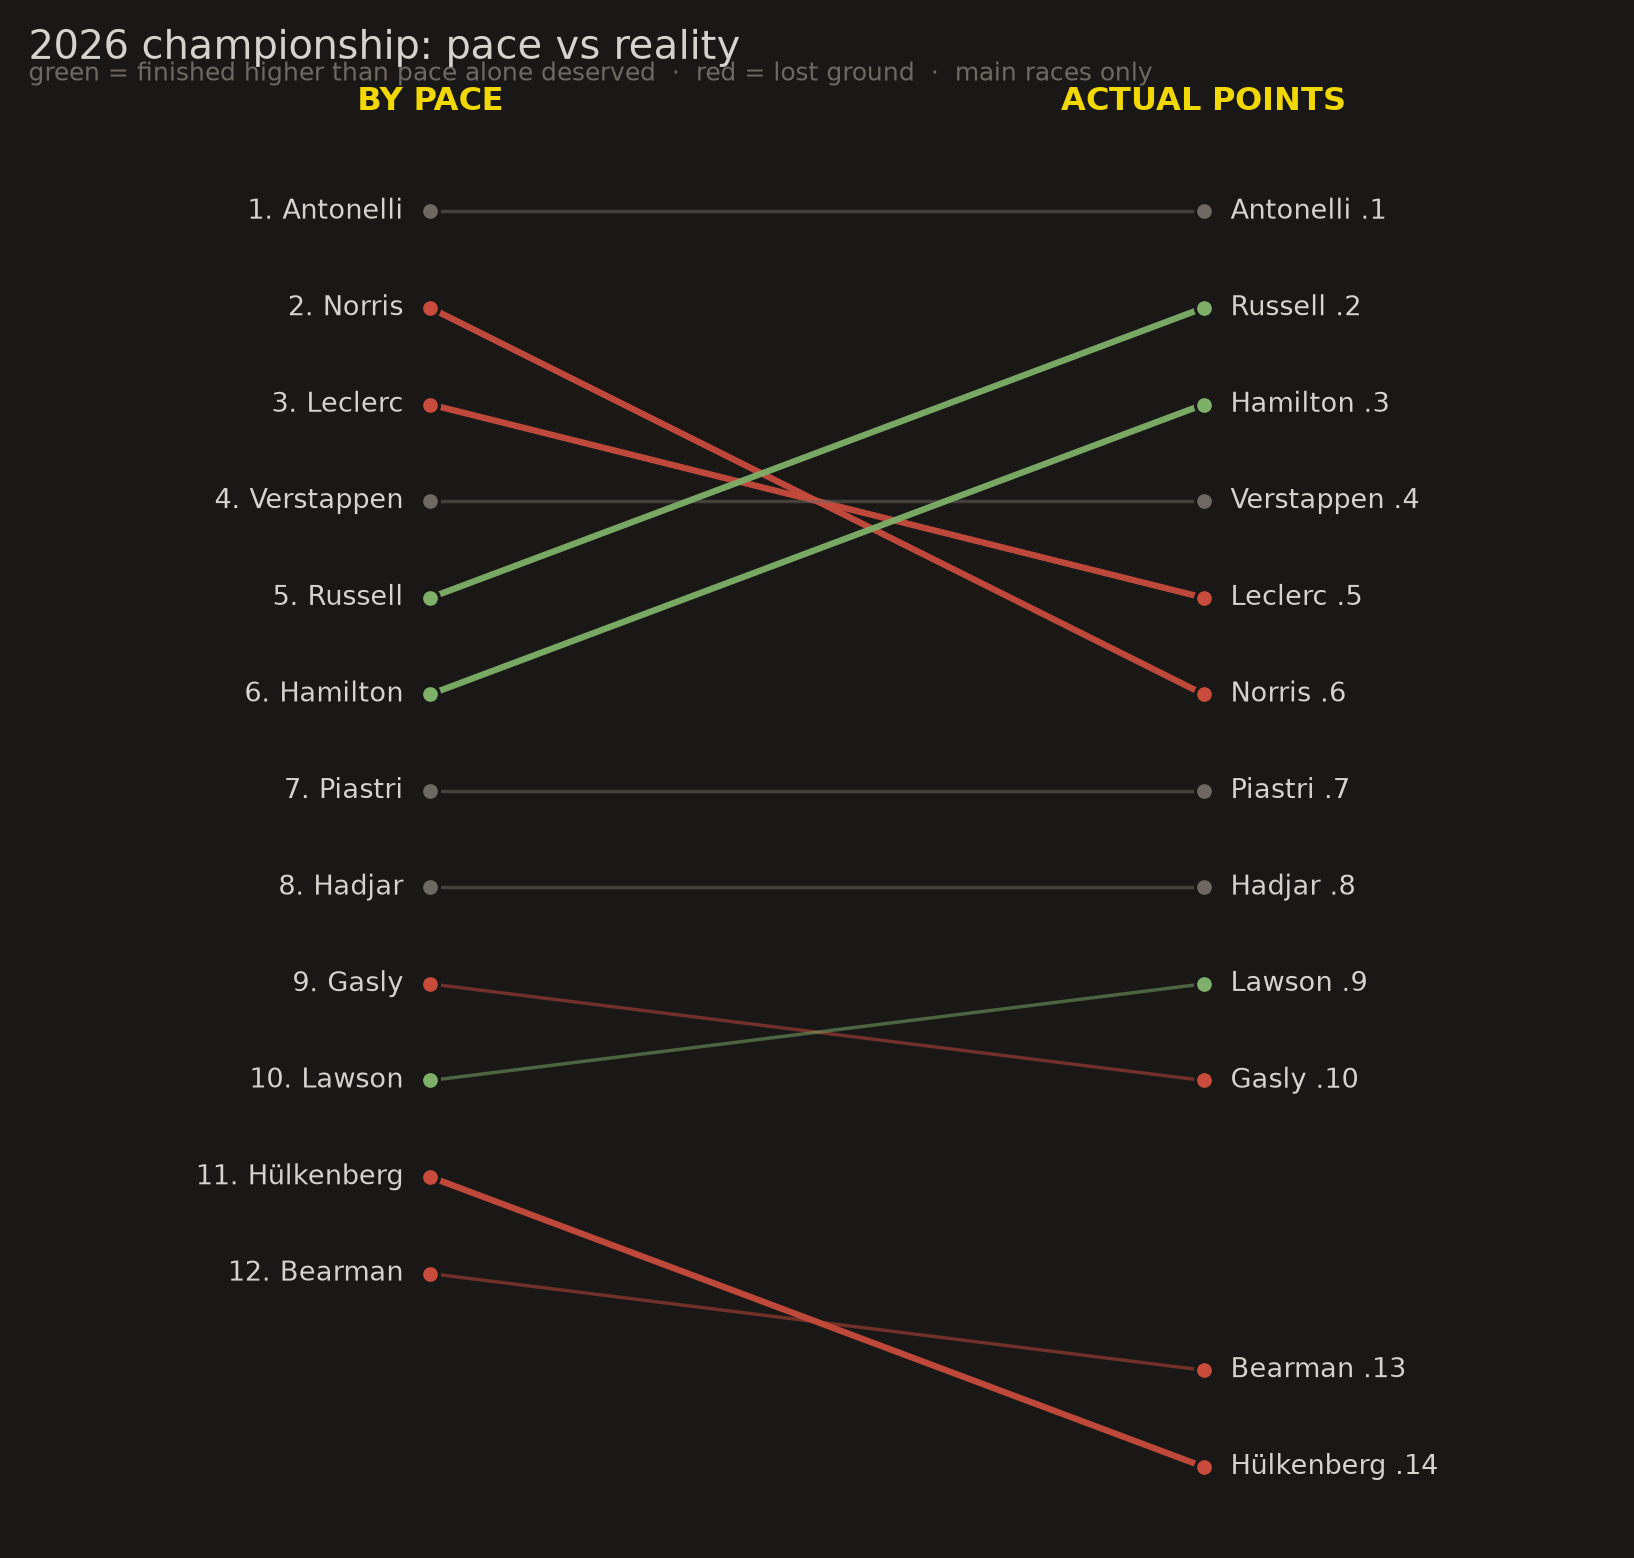
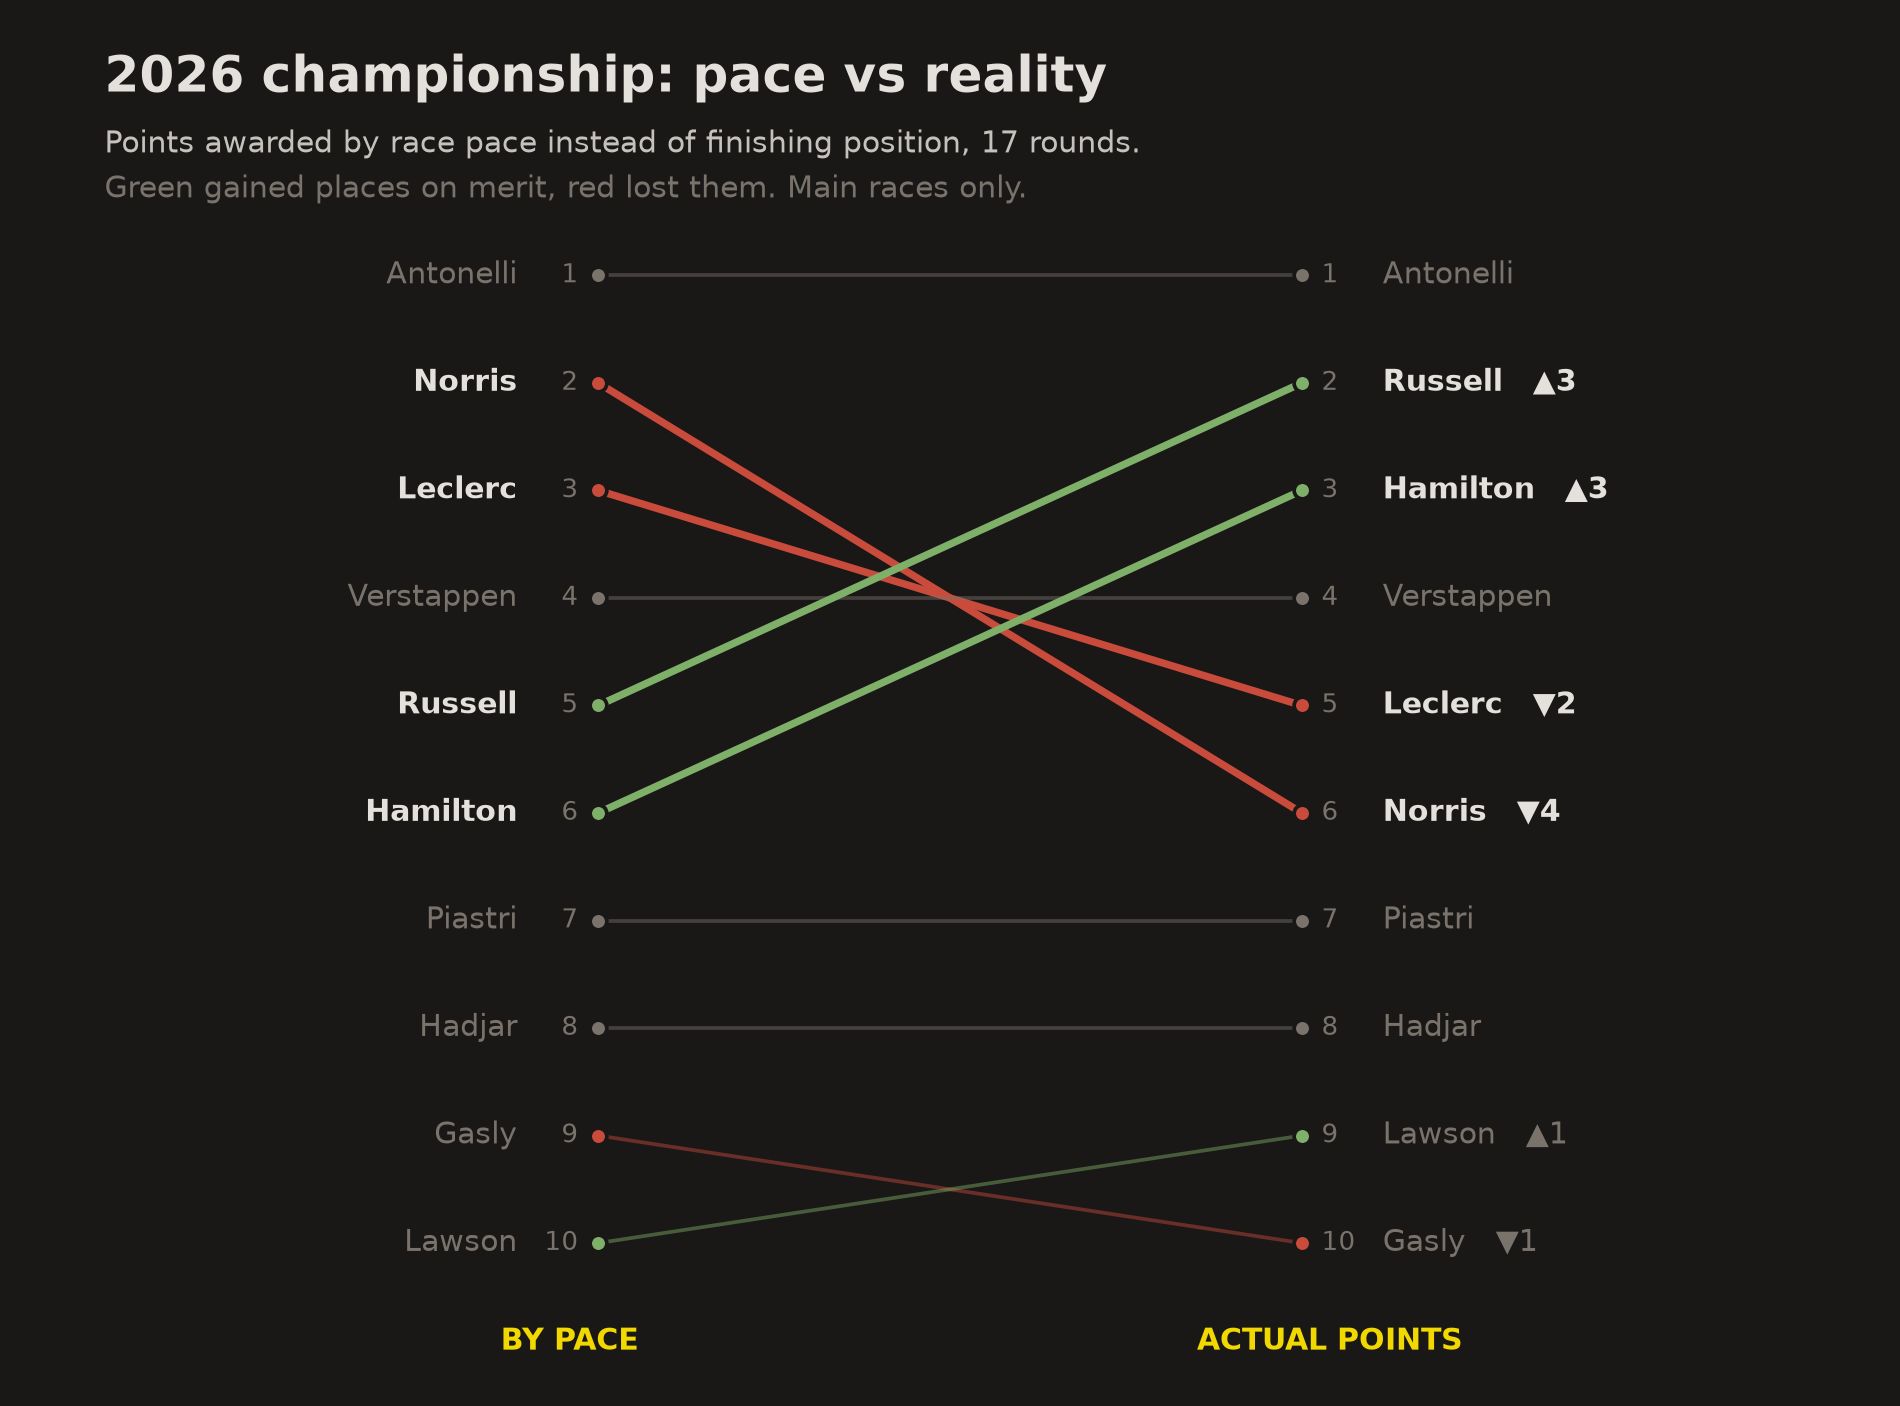
Redraw the pace-vs-championship slope chart: fix title/header collisions, label overlaps on two-digit ranks, and mute non-movers

diff --git a/src/plot_slope.py b/src/plot_slope.py
@@ -1,26 +1,48 @@
 import matplotlib; matplotlib.use("Agg")
 import matplotlib.pyplot as plt, pandas as pd, numpy as np
-BG, FG, MUT, ACC, RED, GRN = "#1A1817","#D6D2CE","#6E6862","#F0D800","#C84B3C","#7FB069"
+BG, FG, MUT, ACC, RED, GRN = "#1A1817","#E4E0DB","#7A736C","#F0D800","#C84B3C","#7FB069"
+
 C = pd.read_csv("out/pace_championship.csv").rename(columns={"family":"driver"})
-C = C[C.pace_pos <= 12].sort_values("pace_pos")
-fig, ax = plt.subplots(figsize=(8.6, 8.2), facecolor=BG); ax.set_facecolor(BG)
+C = C[C.pace_pos <= 10].sort_values("pace_pos")
+
+fig = plt.figure(figsize=(10, 7.4), facecolor=BG)
+ax = fig.add_axes([0.30, 0.07, 0.40, 0.78])     # explicit box: leaves room up top
+ax.set_facecolor(BG)
+
 for r in C.itertuples():
     moved = r.real_pos - r.pace_pos
     col = RED if moved > 0 else (GRN if moved < 0 else MUT)
-    ax.plot([0, 1], [r.pace_pos, r.real_pos], color=col, lw=2.4 if abs(moved) >= 2 else 1.3,
-            alpha=.95 if abs(moved) >= 2 else .5, zorder=2)
-    ax.scatter([0,1], [r.pace_pos, r.real_pos], s=46, color=col, zorder=3, edgecolor=BG, lw=1.2)
-    ax.text(-0.035, r.pace_pos, f"{r.pace_pos}. {r.driver}", ha="right", va="center",
-            color=FG, fontsize=10.2)
-    tag = f"{r.driver} .{r.real_pos}"
-    ax.text(1.035, r.real_pos, tag, ha="left", va="center", color=FG, fontsize=10.2)
-ax.invert_yaxis(); ax.set_xlim(-0.52, 1.52); ax.set_xticks([])
-ax.set_yticks([])
-ax.text(0, C.pace_pos.min()-1.05, "BY PACE", ha="center", color=ACC, fontsize=12, fontweight="bold")
-ax.text(1, C.pace_pos.min()-1.05, "ACTUAL POINTS", ha="center", color=ACC, fontsize=12, fontweight="bold")
-ax.set_title("2026 championship: pace vs reality", color=FG, fontsize=15, loc="left", pad=34)
-ax.text(0, 1.045, "green = finished higher than pace alone deserved  ·  red = lost ground  ·  main races only",
-        transform=ax.transAxes, color=MUT, fontsize=9.4, va="bottom")
+    big = abs(moved) >= 2
+    ax.plot([0, 1], [r.pace_pos, r.real_pos], color=col,
+            lw=2.8 if big else 1.4, alpha=1 if big else .45, zorder=2, solid_capstyle="round")
+    ax.scatter([0, 1], [r.pace_pos, r.real_pos], s=40, color=col, zorder=3,
+               edgecolor=BG, lw=1.4)
+    ax.text(-0.115, r.pace_pos, f"{r.driver}", ha="right", va="center",
+            color=FG if big else MUT, fontsize=11.5, fontweight="bold" if big else "normal")
+    ax.text(-0.028, r.pace_pos, f"{r.pace_pos}", ha="right", va="center",
+            color=MUT, fontsize=10)
+    ax.text(1.028, r.real_pos, f"{r.real_pos}", ha="left", va="center", color=MUT, fontsize=10)
+    tag = f"{r.driver}"
+    if moved: tag += f"   {'▼' if moved>0 else '▲'}{abs(moved)}"
+    ax.text(1.115, r.real_pos, tag, ha="left", va="center",
+            color=FG if big else MUT, fontsize=11.5, fontweight="bold" if big else "normal")
+
+ax.invert_yaxis()
+ax.set_xlim(-0.04, 1.04); ax.set_ylim(10.6, 0.4)
+ax.set_xticks([]); ax.set_yticks([])
 for s in ax.spines.values(): s.set_visible(False)
-plt.tight_layout(); plt.savefig("out/championship_slope.png", dpi=190, facecolor=BG)
+
+# column headers, placed relative to the axes box so they cannot collide with the title
+ax.text(0, -0.045, "BY PACE", transform=ax.transAxes, ha="center", va="bottom",
+        color=ACC, fontsize=11.5, fontweight="bold")
+ax.text(1, -0.045, "ACTUAL POINTS", transform=ax.transAxes, ha="center", va="bottom",
+        color=ACC, fontsize=11.5, fontweight="bold")
+
+fig.text(0.055, 0.962, "2026 championship: pace vs reality", color=FG,
+         fontsize=19, fontweight="bold", va="top")
+fig.text(0.055, 0.908, "Points awarded by race pace instead of finishing position, 17 rounds.",
+         color=FG, fontsize=11.5, va="top", alpha=.85)
+fig.text(0.055, 0.876, "Green gained places on merit, red lost them. Main races only.",
+         color=MUT, fontsize=11.5, va="top")
+plt.savefig("out/championship_slope.png", dpi=190, facecolor=BG)
 print("saved")
